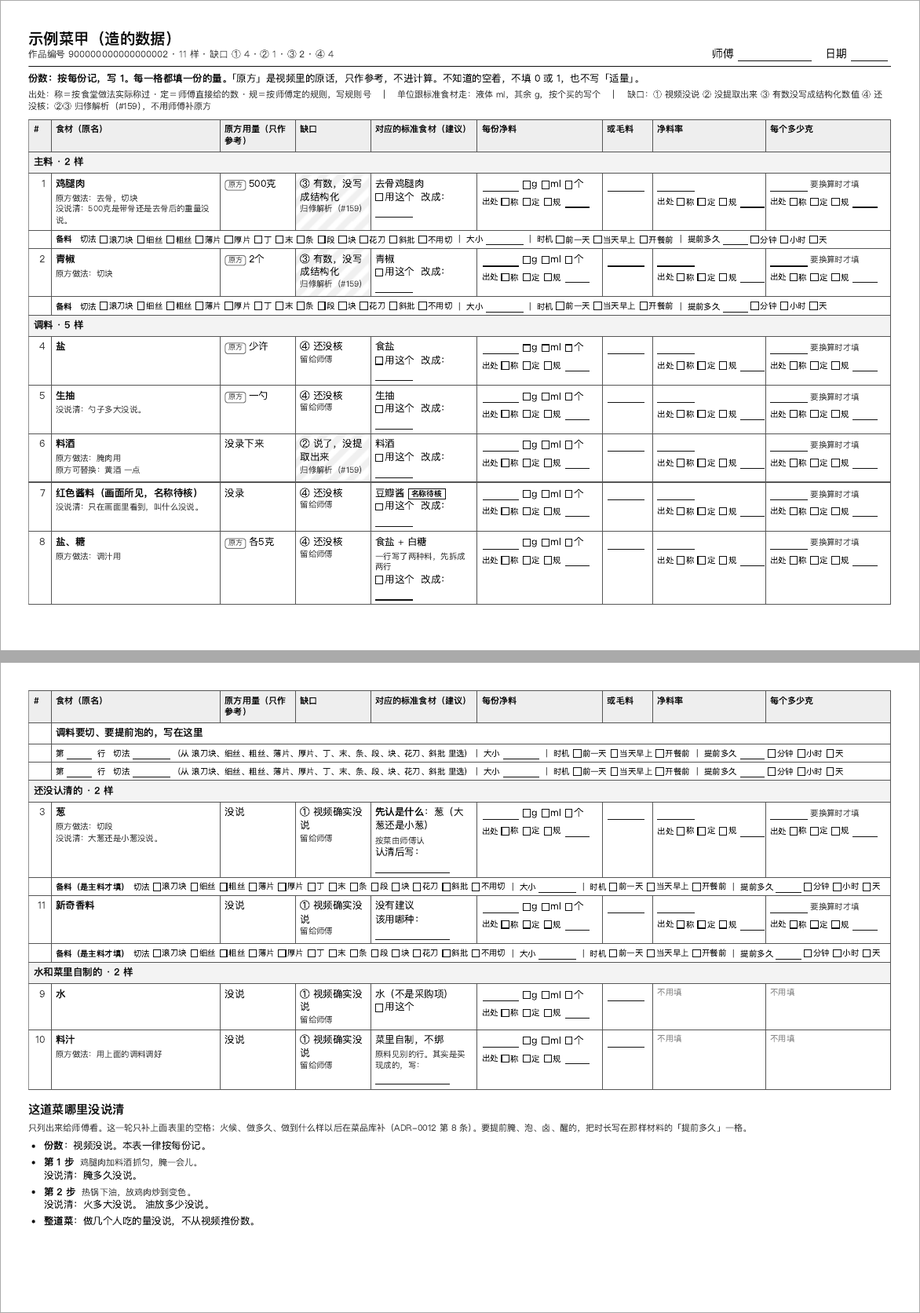
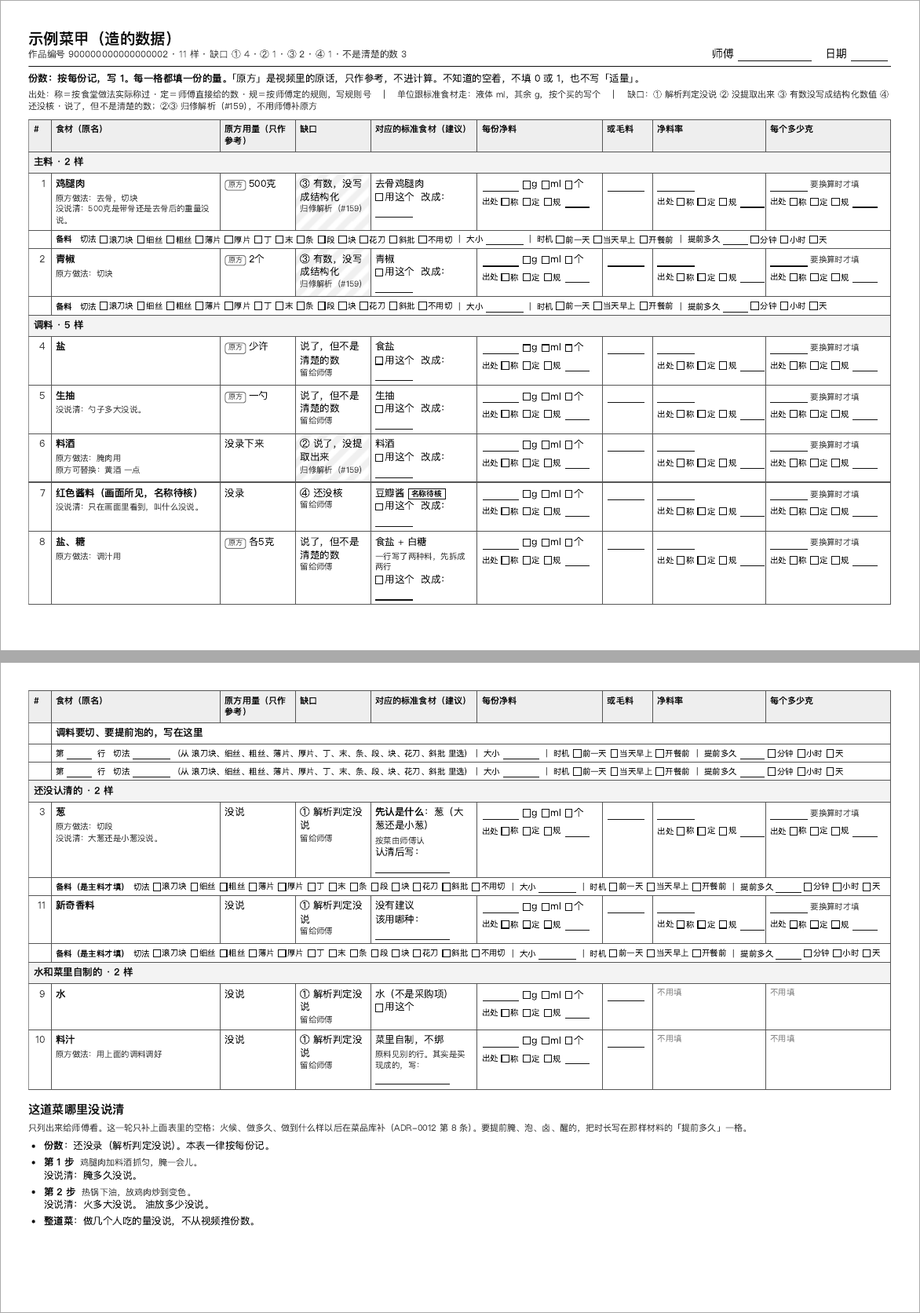
fix(ingest): 补料表缺口和份数的措辞按审查改（#171）
- ① 改成「解析判定没说」：not_stated 是解析的判定，不是人看过原片。
- 「少许」「一勺」这类原话（stated_imprecise，以及 stated 但不是一个清楚的数）
  单列为「说了，但不是清楚的数 · 留给师傅」；「还没核」只给 not_checked
  和状态自相矛盾、认不出的行。图例、页头和封面汇总多一栏。
- 「这道菜哪里没说清」的份数按候选的份数状态写：「还没录（解析判定没说）」
  「还没录（还没核）」，有原话时写原方，和 #177 的「份数还没录」一致。
- 测试、样张和截图一起更新。

Refs #171

diff --git a/skills/video-recipe-ingest/fixtures/fill-sheet/sample.html b/skills/video-recipe-ingest/fixtures/fill-sheet/sample.html
@@ -59,35 +59,36 @@ ul.unclear { margin: 1mm 0 0; padding-left: 5mm; } ul.unclear li { margin-bottom
 <li>对应的标准食材（建议）：只按名字给的建议，没有替师傅绑。对就勾「用这个」，不对就写该用哪种。「先认是什么」的，先认清是哪种再写。标「名称待核」的，先看原话。</li>
 <li>缺口说的是原方的量缺在哪：
 <ul>
-<li>① 视频确实没说（已核原片）。留给师傅。</li>
+<li>① 解析判定没说（解析过了整段视频，判定没说；没有人对过原片）。留给师傅。</li>
 <li>② 原片说了，但没提取出来。归修解析（#159）。</li>
 <li>③ 原话里有清楚的数，但没写成结构化数值。归修解析（#159）。</li>
 <li>④ 还没核。留给师傅。</li>
+<li>另外，原话说了、但不是清楚的数的（「少许」「一勺」「大概多少」、两个数），写「说了，但不是清楚的数」。留给师傅。</li>
 </ul>
 ②③ 不用师傅补原方。不管哪种缺口，每份净料用量都请师傅按食堂做法填。</li>
 <li>「这道菜哪里没说清」只列出来给师傅看。这一轮不补火候、做多久、做到什么样。</li>
 </ol>
-<table class="summary"><thead><tr><th>菜</th><th>作品编号</th><th>样数</th><th>主料</th><th>调料</th><th>其他</th><th>①</th><th>②</th><th>③</th><th>④</th></tr></thead><tbody><tr><td>示例菜甲（造的数据）</td><td>900000000000000002</td><td>11</td><td>2</td><td>5</td><td>4</td><td>4</td><td>1</td><td>2</td><td>4</td></tr><tr><td>示例菜乙（造的数据）</td><td>900000000000000001</td><td>2</td><td>2</td><td>0</td><td>0</td><td>0</td><td>0</td><td>1</td><td>0</td></tr></tbody></table>
+<table class="summary"><thead><tr><th>菜</th><th>作品编号</th><th>样数</th><th>主料</th><th>调料</th><th>其他</th><th>①</th><th>②</th><th>③</th><th>④</th><th>不是清楚的数</th></tr></thead><tbody><tr><td>示例菜甲（造的数据）</td><td>900000000000000002</td><td>11</td><td>2</td><td>5</td><td>4</td><td>4</td><td>1</td><td>2</td><td>1</td><td>3</td></tr><tr><td>示例菜乙（造的数据）</td><td>900000000000000001</td><td>2</td><td>2</td><td>0</td><td>0</td><td>0</td><td>0</td><td>1</td><td>0</td><td>0</td></tr></tbody></table>
 
 </section>
 <section class="page">
-<header><div><h2>示例菜甲（造的数据）</h2><div class="meta">作品编号 900000000000000002 · 11 样 · 缺口 ① 4 · ② 1 · ③ 2 · ④ 4</div></div><div class="who">师傅 <span class="blank wide"></span>　日期 <span class="blank "></span></div></header>
+<header><div><h2>示例菜甲（造的数据）</h2><div class="meta">作品编号 900000000000000002 · 11 样 · 缺口 ① 4 · ② 1 · ③ 2 · ④ 1 · 不是清楚的数 3</div></div><div class="who">师傅 <span class="blank wide"></span>　日期 <span class="blank "></span></div></header>
 <p class="rule"><b>份数：按每份记，写 1。每一格都填一份的量。</b>「原方」是视频里的原话，只作参考，不进计算。不知道的空着，不填 0 或 1，也不写「适量」。</p>
-<p class="legend">出处：称＝按食堂做法实际称过 · 定＝师傅直接给的数 · 规＝按师傅定的规则，写规则号　｜　单位跟标准食材走：液体 ml，其余 g，按个买的写个　｜　缺口：① 视频没说 ② 没提取出来 ③ 有数没写成结构化数值 ④ 还没核；②③ 归修解析（#159），不用师傅补原方</p>
-<table><colgroup><col style="width:7mm"><col style="width:54mm"><col style="width:24mm"><col style="width:24mm"><col style="width:34mm"><col style="width:40mm"><col style="width:16mm"><col style="width:36mm"><col style="width:40mm"></colgroup><thead><tr><th class="no">#</th><th>食材（原名）</th><th>原方用量（只作参考）</th><th>缺口</th><th>对应的标准食材（建议）</th><th>每份净料</th><th>或毛料</th><th>净料率</th><th>每个多少克</th></tr></thead><tbody class="section"><tr><td colspan="9">主料 · 2 样</td></tr></tbody><tbody class="item"><tr><td class="no">1</td><td><b>鸡腿肉</b><div class="notes">原方做法：去骨，切块<br>没说清：500克是带骨还是去骨后的重量没说。</div></td><td><span class="tag">原方</span>500克</td><td class="gap g3">③ 有数，没写成结构化<div class="act">归修解析（#159）</div></td><td>去骨鸡腿肉<div><span class="opt"><i class="box"></i>用这个</span> 改成：<span class="blank "></span></div></td><td class="fill"><span class="blank "></span><span class="opt"><i class="box"></i>g</span><span class="opt"><i class="box"></i>ml</span><span class="opt"><i class="box"></i>个</span><div class="src">出处 <span class="opt"><i class="box"></i>称</span><span class="opt"><i class="box"></i>定</span><span class="opt"><i class="box"></i>规</span><span class="blank rule"></span></div></td><td class="fill"><span class="blank "></span></td><td class="fill"><span class="blank "></span><div class="src">出处 <span class="opt"><i class="box"></i>称</span><span class="opt"><i class="box"></i>定</span><span class="opt"><i class="box"></i>规</span><span class="blank rule"></span></div></td><td class="fill"><span class="blank "></span><span class="notes">要换算时才填</span><div class="src">出处 <span class="opt"><i class="box"></i>称</span><span class="opt"><i class="box"></i>定</span><span class="opt"><i class="box"></i>规</span><span class="blank rule"></span></div></td></tr><tr class="prep"><td></td><td colspan="8"><b>备料</b>　切法 <span class="opt"><i class="box"></i>滚刀块</span><span class="opt"><i class="box"></i>细丝</span><span class="opt"><i class="box"></i>粗丝</span><span class="opt"><i class="box"></i>薄片</span><span class="opt"><i class="box"></i>厚片</span><span class="opt"><i class="box"></i>丁</span><span class="opt"><i class="box"></i>末</span><span class="opt"><i class="box"></i>条</span><span class="opt"><i class="box"></i>段</span><span class="opt"><i class="box"></i>块</span><span class="opt"><i class="box"></i>花刀</span><span class="opt"><i class="box"></i>斜批</span><span class="opt"><i class="box"></i>不用切</span>｜ 大小 <span class="blank "></span>｜ 时机 <span class="opt"><i class="box"></i>前一天</span><span class="opt"><i class="box"></i>当天早上</span><span class="opt"><i class="box"></i>开餐前</span>｜ 提前多久 <span class="blank short"></span><span class="opt"><i class="box"></i>分钟</span><span class="opt"><i class="box"></i>小时</span><span class="opt"><i class="box"></i>天</span></td></tr></tbody><tbody class="item"><tr><td class="no">2</td><td><b>青椒</b><div class="notes">原方做法：切块</div></td><td><span class="tag">原方</span>2个</td><td class="gap g3">③ 有数，没写成结构化<div class="act">归修解析（#159）</div></td><td>青椒<div><span class="opt"><i class="box"></i>用这个</span> 改成：<span class="blank "></span></div></td><td class="fill"><span class="blank "></span><span class="opt"><i class="box"></i>g</span><span class="opt"><i class="box"></i>ml</span><span class="opt"><i class="box"></i>个</span><div class="src">出处 <span class="opt"><i class="box"></i>称</span><span class="opt"><i class="box"></i>定</span><span class="opt"><i class="box"></i>规</span><span class="blank rule"></span></div></td><td class="fill"><span class="blank "></span></td><td class="fill"><span class="blank "></span><div class="src">出处 <span class="opt"><i class="box"></i>称</span><span class="opt"><i class="box"></i>定</span><span class="opt"><i class="box"></i>规</span><span class="blank rule"></span></div></td><td class="fill"><span class="blank "></span><span class="notes">要换算时才填</span><div class="src">出处 <span class="opt"><i class="box"></i>称</span><span class="opt"><i class="box"></i>定</span><span class="opt"><i class="box"></i>规</span><span class="blank rule"></span></div></td></tr><tr class="prep"><td></td><td colspan="8"><b>备料</b>　切法 <span class="opt"><i class="box"></i>滚刀块</span><span class="opt"><i class="box"></i>细丝</span><span class="opt"><i class="box"></i>粗丝</span><span class="opt"><i class="box"></i>薄片</span><span class="opt"><i class="box"></i>厚片</span><span class="opt"><i class="box"></i>丁</span><span class="opt"><i class="box"></i>末</span><span class="opt"><i class="box"></i>条</span><span class="opt"><i class="box"></i>段</span><span class="opt"><i class="box"></i>块</span><span class="opt"><i class="box"></i>花刀</span><span class="opt"><i class="box"></i>斜批</span><span class="opt"><i class="box"></i>不用切</span>｜ 大小 <span class="blank "></span>｜ 时机 <span class="opt"><i class="box"></i>前一天</span><span class="opt"><i class="box"></i>当天早上</span><span class="opt"><i class="box"></i>开餐前</span>｜ 提前多久 <span class="blank short"></span><span class="opt"><i class="box"></i>分钟</span><span class="opt"><i class="box"></i>小时</span><span class="opt"><i class="box"></i>天</span></td></tr></tbody><tbody class="section"><tr><td colspan="9">调料 · 5 样</td></tr></tbody><tbody class="item"><tr><td class="no">4</td><td><b>盐</b></td><td><span class="tag">原方</span>少许</td><td class="gap g4">④ 还没核<div class="act">留给师傅</div></td><td>食盐<div><span class="opt"><i class="box"></i>用这个</span> 改成：<span class="blank "></span></div></td><td class="fill"><span class="blank "></span><span class="opt"><i class="box"></i>g</span><span class="opt"><i class="box"></i>ml</span><span class="opt"><i class="box"></i>个</span><div class="src">出处 <span class="opt"><i class="box"></i>称</span><span class="opt"><i class="box"></i>定</span><span class="opt"><i class="box"></i>规</span><span class="blank rule"></span></div></td><td class="fill"><span class="blank "></span></td><td class="fill"><span class="blank "></span><div class="src">出处 <span class="opt"><i class="box"></i>称</span><span class="opt"><i class="box"></i>定</span><span class="opt"><i class="box"></i>规</span><span class="blank rule"></span></div></td><td class="fill"><span class="blank "></span><span class="notes">要换算时才填</span><div class="src">出处 <span class="opt"><i class="box"></i>称</span><span class="opt"><i class="box"></i>定</span><span class="opt"><i class="box"></i>规</span><span class="blank rule"></span></div></td></tr></tbody><tbody class="item"><tr><td class="no">5</td><td><b>生抽</b><div class="notes">没说清：勺子多大没说。</div></td><td><span class="tag">原方</span>一勺</td><td class="gap g4">④ 还没核<div class="act">留给师傅</div></td><td>生抽<div><span class="opt"><i class="box"></i>用这个</span> 改成：<span class="blank "></span></div></td><td class="fill"><span class="blank "></span><span class="opt"><i class="box"></i>g</span><span class="opt"><i class="box"></i>ml</span><span class="opt"><i class="box"></i>个</span><div class="src">出处 <span class="opt"><i class="box"></i>称</span><span class="opt"><i class="box"></i>定</span><span class="opt"><i class="box"></i>规</span><span class="blank rule"></span></div></td><td class="fill"><span class="blank "></span></td><td class="fill"><span class="blank "></span><div class="src">出处 <span class="opt"><i class="box"></i>称</span><span class="opt"><i class="box"></i>定</span><span class="opt"><i class="box"></i>规</span><span class="blank rule"></span></div></td><td class="fill"><span class="blank "></span><span class="notes">要换算时才填</span><div class="src">出处 <span class="opt"><i class="box"></i>称</span><span class="opt"><i class="box"></i>定</span><span class="opt"><i class="box"></i>规</span><span class="blank rule"></span></div></td></tr></tbody><tbody class="item"><tr><td class="no">6</td><td><b>料酒</b><div class="notes">原方做法：腌肉用<br>原方可替换：黄酒 一点</div></td><td>没录下来</td><td class="gap g2">② 说了，没提取出来<div class="act">归修解析（#159）</div></td><td>料酒<div><span class="opt"><i class="box"></i>用这个</span> 改成：<span class="blank "></span></div></td><td class="fill"><span class="blank "></span><span class="opt"><i class="box"></i>g</span><span class="opt"><i class="box"></i>ml</span><span class="opt"><i class="box"></i>个</span><div class="src">出处 <span class="opt"><i class="box"></i>称</span><span class="opt"><i class="box"></i>定</span><span class="opt"><i class="box"></i>规</span><span class="blank rule"></span></div></td><td class="fill"><span class="blank "></span></td><td class="fill"><span class="blank "></span><div class="src">出处 <span class="opt"><i class="box"></i>称</span><span class="opt"><i class="box"></i>定</span><span class="opt"><i class="box"></i>规</span><span class="blank rule"></span></div></td><td class="fill"><span class="blank "></span><span class="notes">要换算时才填</span><div class="src">出处 <span class="opt"><i class="box"></i>称</span><span class="opt"><i class="box"></i>定</span><span class="opt"><i class="box"></i>规</span><span class="blank rule"></span></div></td></tr></tbody><tbody class="item"><tr><td class="no">7</td><td><b>红色酱料（画面所见，名称待核）</b><div class="notes">没说清：只在画面里看到，叫什么没说。</div></td><td>没录</td><td class="gap g4">④ 还没核<div class="act">留给师傅</div></td><td>豆瓣酱<span class="flag">名称待核</span><div><span class="opt"><i class="box"></i>用这个</span> 改成：<span class="blank "></span></div></td><td class="fill"><span class="blank "></span><span class="opt"><i class="box"></i>g</span><span class="opt"><i class="box"></i>ml</span><span class="opt"><i class="box"></i>个</span><div class="src">出处 <span class="opt"><i class="box"></i>称</span><span class="opt"><i class="box"></i>定</span><span class="opt"><i class="box"></i>规</span><span class="blank rule"></span></div></td><td class="fill"><span class="blank "></span></td><td class="fill"><span class="blank "></span><div class="src">出处 <span class="opt"><i class="box"></i>称</span><span class="opt"><i class="box"></i>定</span><span class="opt"><i class="box"></i>规</span><span class="blank rule"></span></div></td><td class="fill"><span class="blank "></span><span class="notes">要换算时才填</span><div class="src">出处 <span class="opt"><i class="box"></i>称</span><span class="opt"><i class="box"></i>定</span><span class="opt"><i class="box"></i>规</span><span class="blank rule"></span></div></td></tr></tbody><tbody class="item"><tr><td class="no">8</td><td><b>盐、糖</b><div class="notes">原方做法：调汁用</div></td><td><span class="tag">原方</span>各5克</td><td class="gap g4">④ 还没核<div class="act">留给师傅</div></td><td>食盐 + 白糖<div class="notes">一行写了两种料，先拆成两行</div><div><span class="opt"><i class="box"></i>用这个</span> 改成：<span class="blank "></span></div></td><td class="fill"><span class="blank "></span><span class="opt"><i class="box"></i>g</span><span class="opt"><i class="box"></i>ml</span><span class="opt"><i class="box"></i>个</span><div class="src">出处 <span class="opt"><i class="box"></i>称</span><span class="opt"><i class="box"></i>定</span><span class="opt"><i class="box"></i>规</span><span class="blank rule"></span></div></td><td class="fill"><span class="blank "></span></td><td class="fill"><span class="blank "></span><div class="src">出处 <span class="opt"><i class="box"></i>称</span><span class="opt"><i class="box"></i>定</span><span class="opt"><i class="box"></i>规</span><span class="blank rule"></span></div></td><td class="fill"><span class="blank "></span><span class="notes">要换算时才填</span><div class="src">出处 <span class="opt"><i class="box"></i>称</span><span class="opt"><i class="box"></i>定</span><span class="opt"><i class="box"></i>规</span><span class="blank rule"></span></div></td></tr></tbody><tbody class="item"><tr class="sub"><td></td><td colspan="8"><b>调料要切、要提前泡的，写在这里</b></td></tr><tr class="prep"><td></td><td colspan="8">第 <span class="blank short"></span> 行　切法 <span class="blank "></span>（从 滚刀块、细丝、粗丝、薄片、厚片、丁、末、条、段、块、花刀、斜批 里选）｜ 大小 <span class="blank "></span>｜ 时机 <span class="opt"><i class="box"></i>前一天</span><span class="opt"><i class="box"></i>当天早上</span><span class="opt"><i class="box"></i>开餐前</span>｜ 提前多久 <span class="blank short"></span><span class="opt"><i class="box"></i>分钟</span><span class="opt"><i class="box"></i>小时</span><span class="opt"><i class="box"></i>天</span></td></tr><tr class="prep"><td></td><td colspan="8">第 <span class="blank short"></span> 行　切法 <span class="blank "></span>（从 滚刀块、细丝、粗丝、薄片、厚片、丁、末、条、段、块、花刀、斜批 里选）｜ 大小 <span class="blank "></span>｜ 时机 <span class="opt"><i class="box"></i>前一天</span><span class="opt"><i class="box"></i>当天早上</span><span class="opt"><i class="box"></i>开餐前</span>｜ 提前多久 <span class="blank short"></span><span class="opt"><i class="box"></i>分钟</span><span class="opt"><i class="box"></i>小时</span><span class="opt"><i class="box"></i>天</span></td></tr></tbody><tbody class="section"><tr><td colspan="9">还没认清的 · 2 样</td></tr></tbody><tbody class="item"><tr><td class="no">3</td><td><b>葱</b><div class="notes">原方做法：切段<br>没说清：大葱还是小葱没说。</div></td><td>没说</td><td class="gap g1">① 视频确实没说<div class="act">留给师傅</div></td><td><b>先认是什么</b>：葱（大葱还是小葱）<div class="notes">按菜由师傅认</div><div>认清后写：<span class="blank wide"></span></div></td><td class="fill"><span class="blank "></span><span class="opt"><i class="box"></i>g</span><span class="opt"><i class="box"></i>ml</span><span class="opt"><i class="box"></i>个</span><div class="src">出处 <span class="opt"><i class="box"></i>称</span><span class="opt"><i class="box"></i>定</span><span class="opt"><i class="box"></i>规</span><span class="blank rule"></span></div></td><td class="fill"><span class="blank "></span></td><td class="fill"><span class="blank "></span><div class="src">出处 <span class="opt"><i class="box"></i>称</span><span class="opt"><i class="box"></i>定</span><span class="opt"><i class="box"></i>规</span><span class="blank rule"></span></div></td><td class="fill"><span class="blank "></span><span class="notes">要换算时才填</span><div class="src">出处 <span class="opt"><i class="box"></i>称</span><span class="opt"><i class="box"></i>定</span><span class="opt"><i class="box"></i>规</span><span class="blank rule"></span></div></td></tr><tr class="prep"><td></td><td colspan="8"><b>备料（是主料才填）</b>　切法 <span class="opt"><i class="box"></i>滚刀块</span><span class="opt"><i class="box"></i>细丝</span><span class="opt"><i class="box"></i>粗丝</span><span class="opt"><i class="box"></i>薄片</span><span class="opt"><i class="box"></i>厚片</span><span class="opt"><i class="box"></i>丁</span><span class="opt"><i class="box"></i>末</span><span class="opt"><i class="box"></i>条</span><span class="opt"><i class="box"></i>段</span><span class="opt"><i class="box"></i>块</span><span class="opt"><i class="box"></i>花刀</span><span class="opt"><i class="box"></i>斜批</span><span class="opt"><i class="box"></i>不用切</span>｜ 大小 <span class="blank "></span>｜ 时机 <span class="opt"><i class="box"></i>前一天</span><span class="opt"><i class="box"></i>当天早上</span><span class="opt"><i class="box"></i>开餐前</span>｜ 提前多久 <span class="blank short"></span><span class="opt"><i class="box"></i>分钟</span><span class="opt"><i class="box"></i>小时</span><span class="opt"><i class="box"></i>天</span></td></tr></tbody><tbody class="item"><tr><td class="no">11</td><td><b>新奇香料</b></td><td>没说</td><td class="gap g1">① 视频确实没说<div class="act">留给师傅</div></td><td>没有建议<div>该用哪种：<span class="blank wide"></span></div></td><td class="fill"><span class="blank "></span><span class="opt"><i class="box"></i>g</span><span class="opt"><i class="box"></i>ml</span><span class="opt"><i class="box"></i>个</span><div class="src">出处 <span class="opt"><i class="box"></i>称</span><span class="opt"><i class="box"></i>定</span><span class="opt"><i class="box"></i>规</span><span class="blank rule"></span></div></td><td class="fill"><span class="blank "></span></td><td class="fill"><span class="blank "></span><div class="src">出处 <span class="opt"><i class="box"></i>称</span><span class="opt"><i class="box"></i>定</span><span class="opt"><i class="box"></i>规</span><span class="blank rule"></span></div></td><td class="fill"><span class="blank "></span><span class="notes">要换算时才填</span><div class="src">出处 <span class="opt"><i class="box"></i>称</span><span class="opt"><i class="box"></i>定</span><span class="opt"><i class="box"></i>规</span><span class="blank rule"></span></div></td></tr><tr class="prep"><td></td><td colspan="8"><b>备料（是主料才填）</b>　切法 <span class="opt"><i class="box"></i>滚刀块</span><span class="opt"><i class="box"></i>细丝</span><span class="opt"><i class="box"></i>粗丝</span><span class="opt"><i class="box"></i>薄片</span><span class="opt"><i class="box"></i>厚片</span><span class="opt"><i class="box"></i>丁</span><span class="opt"><i class="box"></i>末</span><span class="opt"><i class="box"></i>条</span><span class="opt"><i class="box"></i>段</span><span class="opt"><i class="box"></i>块</span><span class="opt"><i class="box"></i>花刀</span><span class="opt"><i class="box"></i>斜批</span><span class="opt"><i class="box"></i>不用切</span>｜ 大小 <span class="blank "></span>｜ 时机 <span class="opt"><i class="box"></i>前一天</span><span class="opt"><i class="box"></i>当天早上</span><span class="opt"><i class="box"></i>开餐前</span>｜ 提前多久 <span class="blank short"></span><span class="opt"><i class="box"></i>分钟</span><span class="opt"><i class="box"></i>小时</span><span class="opt"><i class="box"></i>天</span></td></tr></tbody><tbody class="section"><tr><td colspan="9">水和菜里自制的 · 2 样</td></tr></tbody><tbody class="item"><tr><td class="no">9</td><td><b>水</b></td><td>没说</td><td class="gap g1">① 视频确实没说<div class="act">留给师傅</div></td><td>水（不是采购项）<div><span class="opt"><i class="box"></i>用这个</span></div></td><td class="fill"><span class="blank "></span><span class="opt"><i class="box"></i>g</span><span class="opt"><i class="box"></i>ml</span><span class="opt"><i class="box"></i>个</span><div class="src">出处 <span class="opt"><i class="box"></i>称</span><span class="opt"><i class="box"></i>定</span><span class="opt"><i class="box"></i>规</span><span class="blank rule"></span></div></td><td class="fill"><span class="blank "></span></td><td class="fill na">不用填</td><td class="fill na">不用填</td></tr></tbody><tbody class="item"><tr><td class="no">10</td><td><b>料汁</b><div class="notes">原方做法：用上面的调料调好</div></td><td>没说</td><td class="gap g1">① 视频确实没说<div class="act">留给师傅</div></td><td>菜里自制，不绑<div class="notes">原料见别的行。其实是买现成的，写：</div><span class="blank wide"></span></td><td class="fill"><span class="blank "></span><span class="opt"><i class="box"></i>g</span><span class="opt"><i class="box"></i>ml</span><span class="opt"><i class="box"></i>个</span><div class="src">出处 <span class="opt"><i class="box"></i>称</span><span class="opt"><i class="box"></i>定</span><span class="opt"><i class="box"></i>规</span><span class="blank rule"></span></div></td><td class="fill"><span class="blank "></span></td><td class="fill na">不用填</td><td class="fill na">不用填</td></tr></tbody></table>
+<p class="legend">出处：称＝按食堂做法实际称过 · 定＝师傅直接给的数 · 规＝按师傅定的规则，写规则号　｜　单位跟标准食材走：液体 ml，其余 g，按个买的写个　｜　缺口：① 解析判定没说 ② 没提取出来 ③ 有数没写成结构化数值 ④ 还没核 · 说了，但不是清楚的数；②③ 归修解析（#159），不用师傅补原方</p>
+<table><colgroup><col style="width:7mm"><col style="width:54mm"><col style="width:24mm"><col style="width:24mm"><col style="width:34mm"><col style="width:40mm"><col style="width:16mm"><col style="width:36mm"><col style="width:40mm"></colgroup><thead><tr><th class="no">#</th><th>食材（原名）</th><th>原方用量（只作参考）</th><th>缺口</th><th>对应的标准食材（建议）</th><th>每份净料</th><th>或毛料</th><th>净料率</th><th>每个多少克</th></tr></thead><tbody class="section"><tr><td colspan="9">主料 · 2 样</td></tr></tbody><tbody class="item"><tr><td class="no">1</td><td><b>鸡腿肉</b><div class="notes">原方做法：去骨，切块<br>没说清：500克是带骨还是去骨后的重量没说。</div></td><td><span class="tag">原方</span>500克</td><td class="gap g3">③ 有数，没写成结构化<div class="act">归修解析（#159）</div></td><td>去骨鸡腿肉<div><span class="opt"><i class="box"></i>用这个</span> 改成：<span class="blank "></span></div></td><td class="fill"><span class="blank "></span><span class="opt"><i class="box"></i>g</span><span class="opt"><i class="box"></i>ml</span><span class="opt"><i class="box"></i>个</span><div class="src">出处 <span class="opt"><i class="box"></i>称</span><span class="opt"><i class="box"></i>定</span><span class="opt"><i class="box"></i>规</span><span class="blank rule"></span></div></td><td class="fill"><span class="blank "></span></td><td class="fill"><span class="blank "></span><div class="src">出处 <span class="opt"><i class="box"></i>称</span><span class="opt"><i class="box"></i>定</span><span class="opt"><i class="box"></i>规</span><span class="blank rule"></span></div></td><td class="fill"><span class="blank "></span><span class="notes">要换算时才填</span><div class="src">出处 <span class="opt"><i class="box"></i>称</span><span class="opt"><i class="box"></i>定</span><span class="opt"><i class="box"></i>规</span><span class="blank rule"></span></div></td></tr><tr class="prep"><td></td><td colspan="8"><b>备料</b>　切法 <span class="opt"><i class="box"></i>滚刀块</span><span class="opt"><i class="box"></i>细丝</span><span class="opt"><i class="box"></i>粗丝</span><span class="opt"><i class="box"></i>薄片</span><span class="opt"><i class="box"></i>厚片</span><span class="opt"><i class="box"></i>丁</span><span class="opt"><i class="box"></i>末</span><span class="opt"><i class="box"></i>条</span><span class="opt"><i class="box"></i>段</span><span class="opt"><i class="box"></i>块</span><span class="opt"><i class="box"></i>花刀</span><span class="opt"><i class="box"></i>斜批</span><span class="opt"><i class="box"></i>不用切</span>｜ 大小 <span class="blank "></span>｜ 时机 <span class="opt"><i class="box"></i>前一天</span><span class="opt"><i class="box"></i>当天早上</span><span class="opt"><i class="box"></i>开餐前</span>｜ 提前多久 <span class="blank short"></span><span class="opt"><i class="box"></i>分钟</span><span class="opt"><i class="box"></i>小时</span><span class="opt"><i class="box"></i>天</span></td></tr></tbody><tbody class="item"><tr><td class="no">2</td><td><b>青椒</b><div class="notes">原方做法：切块</div></td><td><span class="tag">原方</span>2个</td><td class="gap g3">③ 有数，没写成结构化<div class="act">归修解析（#159）</div></td><td>青椒<div><span class="opt"><i class="box"></i>用这个</span> 改成：<span class="blank "></span></div></td><td class="fill"><span class="blank "></span><span class="opt"><i class="box"></i>g</span><span class="opt"><i class="box"></i>ml</span><span class="opt"><i class="box"></i>个</span><div class="src">出处 <span class="opt"><i class="box"></i>称</span><span class="opt"><i class="box"></i>定</span><span class="opt"><i class="box"></i>规</span><span class="blank rule"></span></div></td><td class="fill"><span class="blank "></span></td><td class="fill"><span class="blank "></span><div class="src">出处 <span class="opt"><i class="box"></i>称</span><span class="opt"><i class="box"></i>定</span><span class="opt"><i class="box"></i>规</span><span class="blank rule"></span></div></td><td class="fill"><span class="blank "></span><span class="notes">要换算时才填</span><div class="src">出处 <span class="opt"><i class="box"></i>称</span><span class="opt"><i class="box"></i>定</span><span class="opt"><i class="box"></i>规</span><span class="blank rule"></span></div></td></tr><tr class="prep"><td></td><td colspan="8"><b>备料</b>　切法 <span class="opt"><i class="box"></i>滚刀块</span><span class="opt"><i class="box"></i>细丝</span><span class="opt"><i class="box"></i>粗丝</span><span class="opt"><i class="box"></i>薄片</span><span class="opt"><i class="box"></i>厚片</span><span class="opt"><i class="box"></i>丁</span><span class="opt"><i class="box"></i>末</span><span class="opt"><i class="box"></i>条</span><span class="opt"><i class="box"></i>段</span><span class="opt"><i class="box"></i>块</span><span class="opt"><i class="box"></i>花刀</span><span class="opt"><i class="box"></i>斜批</span><span class="opt"><i class="box"></i>不用切</span>｜ 大小 <span class="blank "></span>｜ 时机 <span class="opt"><i class="box"></i>前一天</span><span class="opt"><i class="box"></i>当天早上</span><span class="opt"><i class="box"></i>开餐前</span>｜ 提前多久 <span class="blank short"></span><span class="opt"><i class="box"></i>分钟</span><span class="opt"><i class="box"></i>小时</span><span class="opt"><i class="box"></i>天</span></td></tr></tbody><tbody class="section"><tr><td colspan="9">调料 · 5 样</td></tr></tbody><tbody class="item"><tr><td class="no">4</td><td><b>盐</b></td><td><span class="tag">原方</span>少许</td><td class="gap g5"> 说了，但不是清楚的数<div class="act">留给师傅</div></td><td>食盐<div><span class="opt"><i class="box"></i>用这个</span> 改成：<span class="blank "></span></div></td><td class="fill"><span class="blank "></span><span class="opt"><i class="box"></i>g</span><span class="opt"><i class="box"></i>ml</span><span class="opt"><i class="box"></i>个</span><div class="src">出处 <span class="opt"><i class="box"></i>称</span><span class="opt"><i class="box"></i>定</span><span class="opt"><i class="box"></i>规</span><span class="blank rule"></span></div></td><td class="fill"><span class="blank "></span></td><td class="fill"><span class="blank "></span><div class="src">出处 <span class="opt"><i class="box"></i>称</span><span class="opt"><i class="box"></i>定</span><span class="opt"><i class="box"></i>规</span><span class="blank rule"></span></div></td><td class="fill"><span class="blank "></span><span class="notes">要换算时才填</span><div class="src">出处 <span class="opt"><i class="box"></i>称</span><span class="opt"><i class="box"></i>定</span><span class="opt"><i class="box"></i>规</span><span class="blank rule"></span></div></td></tr></tbody><tbody class="item"><tr><td class="no">5</td><td><b>生抽</b><div class="notes">没说清：勺子多大没说。</div></td><td><span class="tag">原方</span>一勺</td><td class="gap g5"> 说了，但不是清楚的数<div class="act">留给师傅</div></td><td>生抽<div><span class="opt"><i class="box"></i>用这个</span> 改成：<span class="blank "></span></div></td><td class="fill"><span class="blank "></span><span class="opt"><i class="box"></i>g</span><span class="opt"><i class="box"></i>ml</span><span class="opt"><i class="box"></i>个</span><div class="src">出处 <span class="opt"><i class="box"></i>称</span><span class="opt"><i class="box"></i>定</span><span class="opt"><i class="box"></i>规</span><span class="blank rule"></span></div></td><td class="fill"><span class="blank "></span></td><td class="fill"><span class="blank "></span><div class="src">出处 <span class="opt"><i class="box"></i>称</span><span class="opt"><i class="box"></i>定</span><span class="opt"><i class="box"></i>规</span><span class="blank rule"></span></div></td><td class="fill"><span class="blank "></span><span class="notes">要换算时才填</span><div class="src">出处 <span class="opt"><i class="box"></i>称</span><span class="opt"><i class="box"></i>定</span><span class="opt"><i class="box"></i>规</span><span class="blank rule"></span></div></td></tr></tbody><tbody class="item"><tr><td class="no">6</td><td><b>料酒</b><div class="notes">原方做法：腌肉用<br>原方可替换：黄酒 一点</div></td><td>没录下来</td><td class="gap g2">② 说了，没提取出来<div class="act">归修解析（#159）</div></td><td>料酒<div><span class="opt"><i class="box"></i>用这个</span> 改成：<span class="blank "></span></div></td><td class="fill"><span class="blank "></span><span class="opt"><i class="box"></i>g</span><span class="opt"><i class="box"></i>ml</span><span class="opt"><i class="box"></i>个</span><div class="src">出处 <span class="opt"><i class="box"></i>称</span><span class="opt"><i class="box"></i>定</span><span class="opt"><i class="box"></i>规</span><span class="blank rule"></span></div></td><td class="fill"><span class="blank "></span></td><td class="fill"><span class="blank "></span><div class="src">出处 <span class="opt"><i class="box"></i>称</span><span class="opt"><i class="box"></i>定</span><span class="opt"><i class="box"></i>规</span><span class="blank rule"></span></div></td><td class="fill"><span class="blank "></span><span class="notes">要换算时才填</span><div class="src">出处 <span class="opt"><i class="box"></i>称</span><span class="opt"><i class="box"></i>定</span><span class="opt"><i class="box"></i>规</span><span class="blank rule"></span></div></td></tr></tbody><tbody class="item"><tr><td class="no">7</td><td><b>红色酱料（画面所见，名称待核）</b><div class="notes">没说清：只在画面里看到，叫什么没说。</div></td><td>没录</td><td class="gap g4">④ 还没核<div class="act">留给师傅</div></td><td>豆瓣酱<span class="flag">名称待核</span><div><span class="opt"><i class="box"></i>用这个</span> 改成：<span class="blank "></span></div></td><td class="fill"><span class="blank "></span><span class="opt"><i class="box"></i>g</span><span class="opt"><i class="box"></i>ml</span><span class="opt"><i class="box"></i>个</span><div class="src">出处 <span class="opt"><i class="box"></i>称</span><span class="opt"><i class="box"></i>定</span><span class="opt"><i class="box"></i>规</span><span class="blank rule"></span></div></td><td class="fill"><span class="blank "></span></td><td class="fill"><span class="blank "></span><div class="src">出处 <span class="opt"><i class="box"></i>称</span><span class="opt"><i class="box"></i>定</span><span class="opt"><i class="box"></i>规</span><span class="blank rule"></span></div></td><td class="fill"><span class="blank "></span><span class="notes">要换算时才填</span><div class="src">出处 <span class="opt"><i class="box"></i>称</span><span class="opt"><i class="box"></i>定</span><span class="opt"><i class="box"></i>规</span><span class="blank rule"></span></div></td></tr></tbody><tbody class="item"><tr><td class="no">8</td><td><b>盐、糖</b><div class="notes">原方做法：调汁用</div></td><td><span class="tag">原方</span>各5克</td><td class="gap g5"> 说了，但不是清楚的数<div class="act">留给师傅</div></td><td>食盐 + 白糖<div class="notes">一行写了两种料，先拆成两行</div><div><span class="opt"><i class="box"></i>用这个</span> 改成：<span class="blank "></span></div></td><td class="fill"><span class="blank "></span><span class="opt"><i class="box"></i>g</span><span class="opt"><i class="box"></i>ml</span><span class="opt"><i class="box"></i>个</span><div class="src">出处 <span class="opt"><i class="box"></i>称</span><span class="opt"><i class="box"></i>定</span><span class="opt"><i class="box"></i>规</span><span class="blank rule"></span></div></td><td class="fill"><span class="blank "></span></td><td class="fill"><span class="blank "></span><div class="src">出处 <span class="opt"><i class="box"></i>称</span><span class="opt"><i class="box"></i>定</span><span class="opt"><i class="box"></i>规</span><span class="blank rule"></span></div></td><td class="fill"><span class="blank "></span><span class="notes">要换算时才填</span><div class="src">出处 <span class="opt"><i class="box"></i>称</span><span class="opt"><i class="box"></i>定</span><span class="opt"><i class="box"></i>规</span><span class="blank rule"></span></div></td></tr></tbody><tbody class="item"><tr class="sub"><td></td><td colspan="8"><b>调料要切、要提前泡的，写在这里</b></td></tr><tr class="prep"><td></td><td colspan="8">第 <span class="blank short"></span> 行　切法 <span class="blank "></span>（从 滚刀块、细丝、粗丝、薄片、厚片、丁、末、条、段、块、花刀、斜批 里选）｜ 大小 <span class="blank "></span>｜ 时机 <span class="opt"><i class="box"></i>前一天</span><span class="opt"><i class="box"></i>当天早上</span><span class="opt"><i class="box"></i>开餐前</span>｜ 提前多久 <span class="blank short"></span><span class="opt"><i class="box"></i>分钟</span><span class="opt"><i class="box"></i>小时</span><span class="opt"><i class="box"></i>天</span></td></tr><tr class="prep"><td></td><td colspan="8">第 <span class="blank short"></span> 行　切法 <span class="blank "></span>（从 滚刀块、细丝、粗丝、薄片、厚片、丁、末、条、段、块、花刀、斜批 里选）｜ 大小 <span class="blank "></span>｜ 时机 <span class="opt"><i class="box"></i>前一天</span><span class="opt"><i class="box"></i>当天早上</span><span class="opt"><i class="box"></i>开餐前</span>｜ 提前多久 <span class="blank short"></span><span class="opt"><i class="box"></i>分钟</span><span class="opt"><i class="box"></i>小时</span><span class="opt"><i class="box"></i>天</span></td></tr></tbody><tbody class="section"><tr><td colspan="9">还没认清的 · 2 样</td></tr></tbody><tbody class="item"><tr><td class="no">3</td><td><b>葱</b><div class="notes">原方做法：切段<br>没说清：大葱还是小葱没说。</div></td><td>没说</td><td class="gap g1">① 解析判定没说<div class="act">留给师傅</div></td><td><b>先认是什么</b>：葱（大葱还是小葱）<div class="notes">按菜由师傅认</div><div>认清后写：<span class="blank wide"></span></div></td><td class="fill"><span class="blank "></span><span class="opt"><i class="box"></i>g</span><span class="opt"><i class="box"></i>ml</span><span class="opt"><i class="box"></i>个</span><div class="src">出处 <span class="opt"><i class="box"></i>称</span><span class="opt"><i class="box"></i>定</span><span class="opt"><i class="box"></i>规</span><span class="blank rule"></span></div></td><td class="fill"><span class="blank "></span></td><td class="fill"><span class="blank "></span><div class="src">出处 <span class="opt"><i class="box"></i>称</span><span class="opt"><i class="box"></i>定</span><span class="opt"><i class="box"></i>规</span><span class="blank rule"></span></div></td><td class="fill"><span class="blank "></span><span class="notes">要换算时才填</span><div class="src">出处 <span class="opt"><i class="box"></i>称</span><span class="opt"><i class="box"></i>定</span><span class="opt"><i class="box"></i>规</span><span class="blank rule"></span></div></td></tr><tr class="prep"><td></td><td colspan="8"><b>备料（是主料才填）</b>　切法 <span class="opt"><i class="box"></i>滚刀块</span><span class="opt"><i class="box"></i>细丝</span><span class="opt"><i class="box"></i>粗丝</span><span class="opt"><i class="box"></i>薄片</span><span class="opt"><i class="box"></i>厚片</span><span class="opt"><i class="box"></i>丁</span><span class="opt"><i class="box"></i>末</span><span class="opt"><i class="box"></i>条</span><span class="opt"><i class="box"></i>段</span><span class="opt"><i class="box"></i>块</span><span class="opt"><i class="box"></i>花刀</span><span class="opt"><i class="box"></i>斜批</span><span class="opt"><i class="box"></i>不用切</span>｜ 大小 <span class="blank "></span>｜ 时机 <span class="opt"><i class="box"></i>前一天</span><span class="opt"><i class="box"></i>当天早上</span><span class="opt"><i class="box"></i>开餐前</span>｜ 提前多久 <span class="blank short"></span><span class="opt"><i class="box"></i>分钟</span><span class="opt"><i class="box"></i>小时</span><span class="opt"><i class="box"></i>天</span></td></tr></tbody><tbody class="item"><tr><td class="no">11</td><td><b>新奇香料</b></td><td>没说</td><td class="gap g1">① 解析判定没说<div class="act">留给师傅</div></td><td>没有建议<div>该用哪种：<span class="blank wide"></span></div></td><td class="fill"><span class="blank "></span><span class="opt"><i class="box"></i>g</span><span class="opt"><i class="box"></i>ml</span><span class="opt"><i class="box"></i>个</span><div class="src">出处 <span class="opt"><i class="box"></i>称</span><span class="opt"><i class="box"></i>定</span><span class="opt"><i class="box"></i>规</span><span class="blank rule"></span></div></td><td class="fill"><span class="blank "></span></td><td class="fill"><span class="blank "></span><div class="src">出处 <span class="opt"><i class="box"></i>称</span><span class="opt"><i class="box"></i>定</span><span class="opt"><i class="box"></i>规</span><span class="blank rule"></span></div></td><td class="fill"><span class="blank "></span><span class="notes">要换算时才填</span><div class="src">出处 <span class="opt"><i class="box"></i>称</span><span class="opt"><i class="box"></i>定</span><span class="opt"><i class="box"></i>规</span><span class="blank rule"></span></div></td></tr><tr class="prep"><td></td><td colspan="8"><b>备料（是主料才填）</b>　切法 <span class="opt"><i class="box"></i>滚刀块</span><span class="opt"><i class="box"></i>细丝</span><span class="opt"><i class="box"></i>粗丝</span><span class="opt"><i class="box"></i>薄片</span><span class="opt"><i class="box"></i>厚片</span><span class="opt"><i class="box"></i>丁</span><span class="opt"><i class="box"></i>末</span><span class="opt"><i class="box"></i>条</span><span class="opt"><i class="box"></i>段</span><span class="opt"><i class="box"></i>块</span><span class="opt"><i class="box"></i>花刀</span><span class="opt"><i class="box"></i>斜批</span><span class="opt"><i class="box"></i>不用切</span>｜ 大小 <span class="blank "></span>｜ 时机 <span class="opt"><i class="box"></i>前一天</span><span class="opt"><i class="box"></i>当天早上</span><span class="opt"><i class="box"></i>开餐前</span>｜ 提前多久 <span class="blank short"></span><span class="opt"><i class="box"></i>分钟</span><span class="opt"><i class="box"></i>小时</span><span class="opt"><i class="box"></i>天</span></td></tr></tbody><tbody class="section"><tr><td colspan="9">水和菜里自制的 · 2 样</td></tr></tbody><tbody class="item"><tr><td class="no">9</td><td><b>水</b></td><td>没说</td><td class="gap g1">① 解析判定没说<div class="act">留给师傅</div></td><td>水（不是采购项）<div><span class="opt"><i class="box"></i>用这个</span></div></td><td class="fill"><span class="blank "></span><span class="opt"><i class="box"></i>g</span><span class="opt"><i class="box"></i>ml</span><span class="opt"><i class="box"></i>个</span><div class="src">出处 <span class="opt"><i class="box"></i>称</span><span class="opt"><i class="box"></i>定</span><span class="opt"><i class="box"></i>规</span><span class="blank rule"></span></div></td><td class="fill"><span class="blank "></span></td><td class="fill na">不用填</td><td class="fill na">不用填</td></tr></tbody><tbody class="item"><tr><td class="no">10</td><td><b>料汁</b><div class="notes">原方做法：用上面的调料调好</div></td><td>没说</td><td class="gap g1">① 解析判定没说<div class="act">留给师傅</div></td><td>菜里自制，不绑<div class="notes">原料见别的行。其实是买现成的，写：</div><span class="blank wide"></span></td><td class="fill"><span class="blank "></span><span class="opt"><i class="box"></i>g</span><span class="opt"><i class="box"></i>ml</span><span class="opt"><i class="box"></i>个</span><div class="src">出处 <span class="opt"><i class="box"></i>称</span><span class="opt"><i class="box"></i>定</span><span class="opt"><i class="box"></i>规</span><span class="blank rule"></span></div></td><td class="fill"><span class="blank "></span></td><td class="fill na">不用填</td><td class="fill na">不用填</td></tr></tbody></table>
 <h3>这道菜哪里没说清</h3>
 <p class="legend">只列出来给师傅看。这一轮只补上面表里的空格；火候、做多久、做到什么样以后在菜品库补（ADR-0012 第 8 条）。要提前腌、泡、卤、醒的，把时长写在那样材料的「提前多久」一格。</p>
-<ul class="unclear"><li><b>份数</b>：视频没说。本表一律按每份记。</li><li><b>第 1 步</b><span class="step">鸡腿肉加料酒抓匀，腌一会儿。</span><br>没说清：腌多久没说。</li><li><b>第 2 步</b><span class="step">热锅下油，放鸡肉炒到变色。</span><br>没说清：火多大没说。 油放多少没说。</li><li><b>整道菜</b>：做几个人吃的量没说，不从视频推份数。</li></ul>
+<ul class="unclear"><li><b>份数</b>：还没录（解析判定没说）。本表一律按每份记。</li><li><b>第 1 步</b><span class="step">鸡腿肉加料酒抓匀，腌一会儿。</span><br>没说清：腌多久没说。</li><li><b>第 2 步</b><span class="step">热锅下油，放鸡肉炒到变色。</span><br>没说清：火多大没说。 油放多少没说。</li><li><b>整道菜</b>：做几个人吃的量没说，不从视频推份数。</li></ul>
 
 </section>
 <section class="page">
-<header><div><h2>示例菜乙（造的数据）</h2><div class="meta">作品编号 900000000000000001 · 2 样 · 缺口 ① 0 · ② 0 · ③ 1 · ④ 0 · 原方有结构化的数 1</div></div><div class="who">师傅 <span class="blank wide"></span>　日期 <span class="blank "></span></div></header>
+<header><div><h2>示例菜乙（造的数据）</h2><div class="meta">作品编号 900000000000000001 · 2 样 · 缺口 ① 0 · ② 0 · ③ 1 · ④ 0 · 不是清楚的数 0 · 原方有结构化的数 1</div></div><div class="who">师傅 <span class="blank wide"></span>　日期 <span class="blank "></span></div></header>
 <p class="rule"><b>份数：按每份记，写 1。每一格都填一份的量。</b>「原方」是视频里的原话，只作参考，不进计算。不知道的空着，不填 0 或 1，也不写「适量」。</p>
-<p class="legend">出处：称＝按食堂做法实际称过 · 定＝师傅直接给的数 · 规＝按师傅定的规则，写规则号　｜　单位跟标准食材走：液体 ml，其余 g，按个买的写个　｜　缺口：① 视频没说 ② 没提取出来 ③ 有数没写成结构化数值 ④ 还没核；②③ 归修解析（#159），不用师傅补原方</p>
+<p class="legend">出处：称＝按食堂做法实际称过 · 定＝师傅直接给的数 · 规＝按师傅定的规则，写规则号　｜　单位跟标准食材走：液体 ml，其余 g，按个买的写个　｜　缺口：① 解析判定没说 ② 没提取出来 ③ 有数没写成结构化数值 ④ 还没核 · 说了，但不是清楚的数；②③ 归修解析（#159），不用师傅补原方</p>
 <table><colgroup><col style="width:7mm"><col style="width:54mm"><col style="width:24mm"><col style="width:24mm"><col style="width:34mm"><col style="width:40mm"><col style="width:16mm"><col style="width:36mm"><col style="width:40mm"></colgroup><thead><tr><th class="no">#</th><th>食材（原名）</th><th>原方用量（只作参考）</th><th>缺口</th><th>对应的标准食材（建议）</th><th>每份净料</th><th>或毛料</th><th>净料率</th><th>每个多少克</th></tr></thead><tbody class="section"><tr><td colspan="9">主料 · 2 样</td></tr></tbody><tbody class="item"><tr><td class="no">1</td><td><b>土豆</b><div class="notes">原方做法：切丝</div></td><td><span class="tag">原方</span>一斤二两</td><td class="gap g3">③ 有数，没写成结构化<div class="act">归修解析（#159）</div></td><td>土豆<div><span class="opt"><i class="box"></i>用这个</span> 改成：<span class="blank "></span></div></td><td class="fill"><span class="blank "></span><span class="opt"><i class="box"></i>g</span><span class="opt"><i class="box"></i>ml</span><span class="opt"><i class="box"></i>个</span><div class="src">出处 <span class="opt"><i class="box"></i>称</span><span class="opt"><i class="box"></i>定</span><span class="opt"><i class="box"></i>规</span><span class="blank rule"></span></div></td><td class="fill"><span class="blank "></span></td><td class="fill"><span class="blank "></span><div class="src">出处 <span class="opt"><i class="box"></i>称</span><span class="opt"><i class="box"></i>定</span><span class="opt"><i class="box"></i>规</span><span class="blank rule"></span></div></td><td class="fill"><span class="blank "></span><span class="notes">要换算时才填</span><div class="src">出处 <span class="opt"><i class="box"></i>称</span><span class="opt"><i class="box"></i>定</span><span class="opt"><i class="box"></i>规</span><span class="blank rule"></span></div></td></tr><tr class="prep"><td></td><td colspan="8"><b>备料</b>　切法 <span class="opt"><i class="box"></i>滚刀块</span><span class="opt"><i class="box"></i>细丝</span><span class="opt"><i class="box"></i>粗丝</span><span class="opt"><i class="box"></i>薄片</span><span class="opt"><i class="box"></i>厚片</span><span class="opt"><i class="box"></i>丁</span><span class="opt"><i class="box"></i>末</span><span class="opt"><i class="box"></i>条</span><span class="opt"><i class="box"></i>段</span><span class="opt"><i class="box"></i>块</span><span class="opt"><i class="box"></i>花刀</span><span class="opt"><i class="box"></i>斜批</span><span class="opt"><i class="box"></i>不用切</span>｜ 大小 <span class="blank "></span>｜ 时机 <span class="opt"><i class="box"></i>前一天</span><span class="opt"><i class="box"></i>当天早上</span><span class="opt"><i class="box"></i>开餐前</span>｜ 提前多久 <span class="blank short"></span><span class="opt"><i class="box"></i>分钟</span><span class="opt"><i class="box"></i>小时</span><span class="opt"><i class="box"></i>天</span></td></tr></tbody><tbody class="item"><tr><td class="no">2</td><td><b>鸡胸肉</b><div class="notes">原方做法：切丝</div></td><td><span class="tag">原方</span>200克</td><td class="gap g0"> 原方有结构化的数<div class="act">只作参考</div></td><td>鸡胸肉<div><span class="opt"><i class="box"></i>用这个</span> 改成：<span class="blank "></span></div></td><td class="fill"><span class="blank "></span><span class="opt"><i class="box"></i>g</span><span class="opt"><i class="box"></i>ml</span><span class="opt"><i class="box"></i>个</span><div class="src">出处 <span class="opt"><i class="box"></i>称</span><span class="opt"><i class="box"></i>定</span><span class="opt"><i class="box"></i>规</span><span class="blank rule"></span></div></td><td class="fill"><span class="blank "></span></td><td class="fill"><span class="blank "></span><div class="src">出处 <span class="opt"><i class="box"></i>称</span><span class="opt"><i class="box"></i>定</span><span class="opt"><i class="box"></i>规</span><span class="blank rule"></span></div></td><td class="fill"><span class="blank "></span><span class="notes">要换算时才填</span><div class="src">出处 <span class="opt"><i class="box"></i>称</span><span class="opt"><i class="box"></i>定</span><span class="opt"><i class="box"></i>规</span><span class="blank rule"></span></div></td></tr><tr class="prep"><td></td><td colspan="8"><b>备料</b>　切法 <span class="opt"><i class="box"></i>滚刀块</span><span class="opt"><i class="box"></i>细丝</span><span class="opt"><i class="box"></i>粗丝</span><span class="opt"><i class="box"></i>薄片</span><span class="opt"><i class="box"></i>厚片</span><span class="opt"><i class="box"></i>丁</span><span class="opt"><i class="box"></i>末</span><span class="opt"><i class="box"></i>条</span><span class="opt"><i class="box"></i>段</span><span class="opt"><i class="box"></i>块</span><span class="opt"><i class="box"></i>花刀</span><span class="opt"><i class="box"></i>斜批</span><span class="opt"><i class="box"></i>不用切</span>｜ 大小 <span class="blank "></span>｜ 时机 <span class="opt"><i class="box"></i>前一天</span><span class="opt"><i class="box"></i>当天早上</span><span class="opt"><i class="box"></i>开餐前</span>｜ 提前多久 <span class="blank short"></span><span class="opt"><i class="box"></i>分钟</span><span class="opt"><i class="box"></i>小时</span><span class="opt"><i class="box"></i>天</span></td></tr></tbody></table>
 <h3>这道菜哪里没说清</h3>
 <p class="legend">只列出来给师傅看。这一轮只补上面表里的空格；火候、做多久、做到什么样以后在菜品库补（ADR-0012 第 8 条）。要提前腌、泡、卤、醒的，把时长写在那样材料的「提前多久」一格。</p>
-<ul class="unclear"><li><b>份数</b>：原方「两三个人吃」，只作参考，不从这里推份数。本表一律按每份记。</li></ul>
+<ul class="unclear"><li><b>份数</b>：还没录（原方「两三个人吃」，只作参考，不从这里推份数）。本表一律按每份记。</li></ul>
 
 </section>
 </body>
